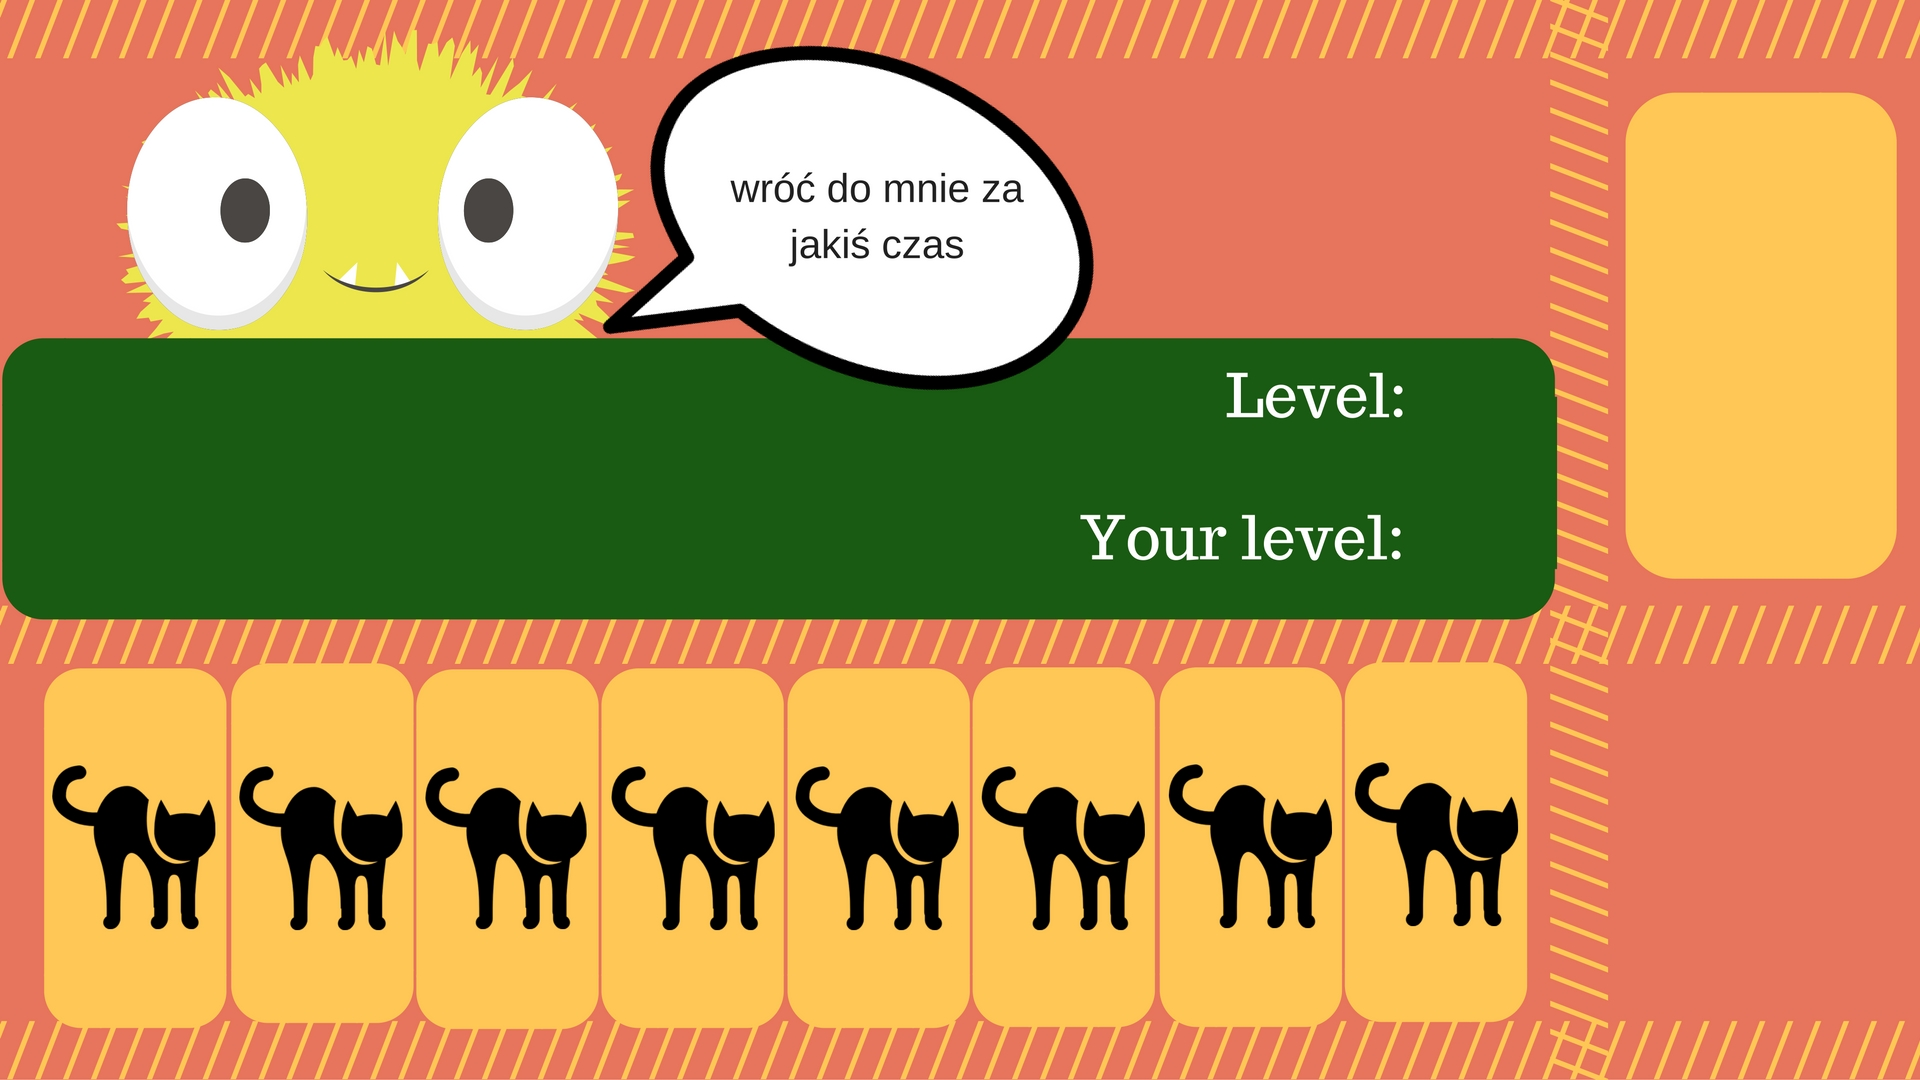
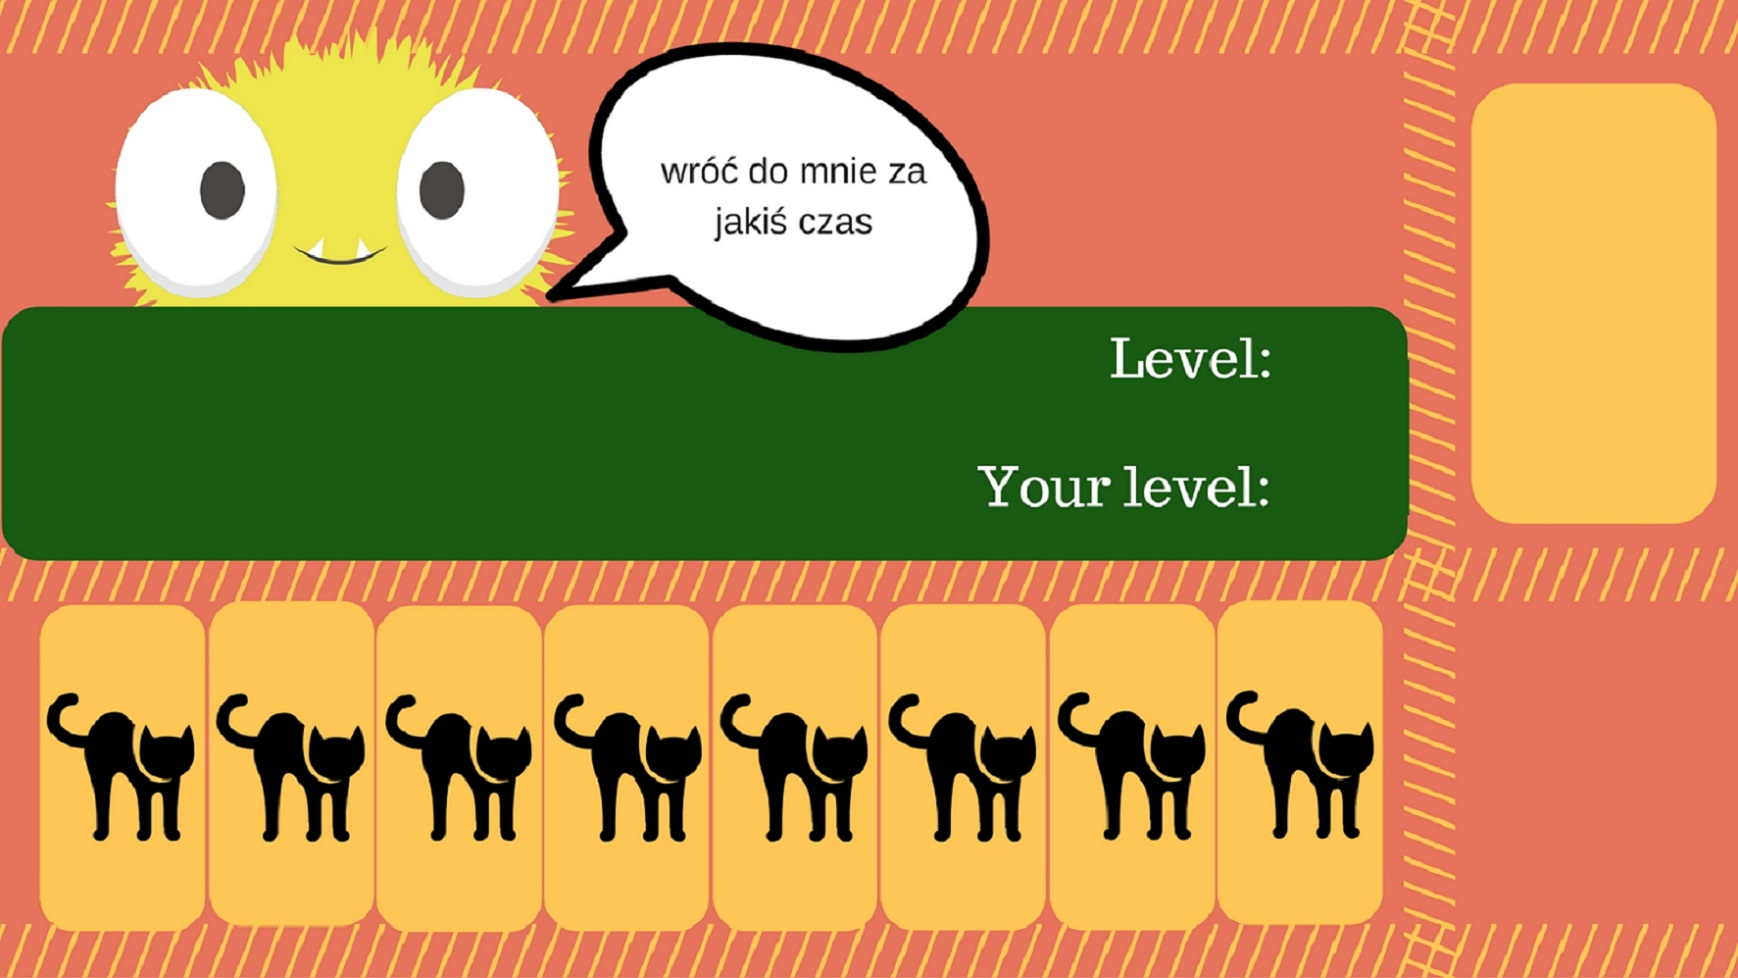
change size of gameboard

diff --git a/munchkin/src/src/gui/Gra.java b/munchkin/src/src/gui/Gra.java
@@ -99,7 +99,7 @@ public class Gra extends javax.swing.JFrame {
             }
         });
         getContentPane().add(homeButton);
-        homeButton.setBounds(1360, 80, 80, 60);
+        homeButton.setBounds(1230, 60, 80, 60);
 
         closeButton.setIcon(new javax.swing.ImageIcon(getClass().getResource("/img/exit.png"))); // NOI18N
         closeButton.setBorderPainted(false);
@@ -110,7 +110,7 @@ public class Gra extends javax.swing.JFrame {
             }
         });
         getContentPane().add(closeButton);
-        closeButton.setBounds(1439, 80, 80, 60);
+        closeButton.setBounds(1300, 60, 80, 60);
 
         walczZPotworemZRekiButton.setText("Walcz z potworem z ręki");
         walczZPotworemZRekiButton.addActionListener(new java.awt.event.ActionListener() {
@@ -119,7 +119,7 @@ public class Gra extends javax.swing.JFrame {
             }
         });
         getContentPane().add(walczZPotworemZRekiButton);
-        walczZPotworemZRekiButton.setBounds(870, 610, 190, 23);
+        walczZPotworemZRekiButton.setBounds(790, 470, 190, 25);
 
         wezKarteDrzwiButton.setText("Weź kartę drzwi");
         wezKarteDrzwiButton.addActionListener(new java.awt.event.ActionListener() {
@@ -128,7 +128,7 @@ public class Gra extends javax.swing.JFrame {
             }
         });
         getContentPane().add(wezKarteDrzwiButton);
-        wezKarteDrzwiButton.setBounds(720, 610, 130, 23);
+        wezKarteDrzwiButton.setBounds(640, 470, 130, 25);
 
         zrobioneButton.setText("Zrobione");
         zrobioneButton.addActionListener(new java.awt.event.ActionListener() {
@@ -137,7 +137,7 @@ public class Gra extends javax.swing.JFrame {
             }
         });
         getContentPane().add(zrobioneButton);
-        zrobioneButton.setBounds(800, 610, 130, 23);
+        zrobioneButton.setBounds(640, 510, 130, 25);
 
         koniecTuryButton.setText("Koniec tury");
         koniecTuryButton.addActionListener(new java.awt.event.ActionListener() {
@@ -146,7 +146,7 @@ public class Gra extends javax.swing.JFrame {
             }
         });
         getContentPane().add(koniecTuryButton);
-        koniecTuryButton.setBounds(800, 610, 130, 23);
+        koniecTuryButton.setBounds(790, 510, 130, 25);
         koniecTuryButton.getAccessibleContext().setAccessibleName("");
 
         otworzDrzwiButton.setText("Otwórz drzwi");
@@ -156,7 +156,7 @@ public class Gra extends javax.swing.JFrame {
             }
         });
         getContentPane().add(otworzDrzwiButton);
-        otworzDrzwiButton.setBounds(800, 610, 130, 23);
+        otworzDrzwiButton.setBounds(790, 510, 130, 25);
 
         walczButton.setText("Walcz z potworem");
         walczButton.addActionListener(new java.awt.event.ActionListener() {
@@ -165,7 +165,7 @@ public class Gra extends javax.swing.JFrame {
             }
         });
         getContentPane().add(walczButton);
-        walczButton.setBounds(800, 610, 130, 23);
+        walczButton.setBounds(790, 510, 130, 25);
 
         odrzucKartyButton.setText("Odrzuc karty");
         odrzucKartyButton.addActionListener(new java.awt.event.ActionListener() {
@@ -174,7 +174,7 @@ public class Gra extends javax.swing.JFrame {
             }
         });
         getContentPane().add(odrzucKartyButton);
-        odrzucKartyButton.setBounds(0, 580, 130, 23);
+        odrzucKartyButton.setBounds(0, 460, 130, 25);
 
         wylozZRekiButton.setText("Wyłóż kartę z ręki");
         wylozZRekiButton.addActionListener(new java.awt.event.ActionListener() {
@@ -183,7 +183,7 @@ public class Gra extends javax.swing.JFrame {
             }
         });
         getContentPane().add(wylozZRekiButton);
-        wylozZRekiButton.setBounds(0, 610, 130, 23);
+        wylozZRekiButton.setBounds(0, 490, 130, 25);
         wylozZRekiButton.getAccessibleContext().setAccessibleName("Wyłóż na stół");
         wylozZRekiButton.getAccessibleContext().setAccessibleDescription("");
 
@@ -194,34 +194,34 @@ public class Gra extends javax.swing.JFrame {
             }
         });
         getContentPane().add(wezDoRekiButton);
-        wezDoRekiButton.setBounds(797, 610, 130, 23);
+        wezDoRekiButton.setBounds(790, 510, 130, 25);
 
         otwarteDrzwi.setBackground(new java.awt.Color(25, 91, 19));
         otwarteDrzwi.setBorder(javax.swing.BorderFactory.createTitledBorder(javax.swing.BorderFactory.createEtchedBorder()));
         getContentPane().add(otwarteDrzwi);
-        otwarteDrzwi.setBounds(680, 400, 390, 200);
+        otwarteDrzwi.setBounds(650, 310, 350, 130);
 
         kartyWRece.setBackground(new java.awt.Color(255, 199, 86));
         kartyWRece.setBorder(javax.swing.BorderFactory.createTitledBorder(javax.swing.BorderFactory.createEtchedBorder(), "karty w ręce"));
         getContentPane().add(kartyWRece);
-        kartyWRece.setBounds(140, 630, 520, 120);
+        kartyWRece.setBounds(140, 450, 470, 120);
 
         kartyNaStole.setBackground(new java.awt.Color(25, 91, 19));
         kartyNaStole.setBorder(javax.swing.BorderFactory.createTitledBorder(javax.swing.BorderFactory.createEtchedBorder(), "karty na stole"));
         getContentPane().add(kartyNaStole);
-        kartyNaStole.setBounds(140, 390, 520, 210);
+        kartyNaStole.setBounds(140, 310, 470, 130);
 
         klasa.setText("Twoja klasa: brak");
         getContentPane().add(klasa);
-        klasa.setBounds(1100, 310, 170, 14);
+        klasa.setBounds(1100, 310, 170, 16);
 
         rasa.setText("Twoja rasa: człowiek");
         getContentPane().add(rasa);
-        rasa.setBounds(1100, 290, 170, 14);
+        rasa.setBounds(1100, 290, 170, 16);
 
         poziomBojowy.setText("Twój poziom bojowy: 1");
         getContentPane().add(poziomBojowy);
-        poziomBojowy.setBounds(1100, 270, 130, 14);
+        poziomBojowy.setBounds(1100, 270, 130, 16);
 
         poziom.setText("Twój poziom: 1");
         getContentPane().add(poziom);
@@ -234,12 +234,12 @@ public class Gra extends javax.swing.JFrame {
         kartaDuza.setBorder(javax.swing.BorderFactory.createEtchedBorder());
         kartaDuza.setOpaque(true);
         getContentPane().add(kartaDuza);
-        kartaDuza.setBounds(1100, 410, 220, 190);
+        kartaDuza.setBounds(1040, 310, 220, 190);
 
         background.setIcon(new javax.swing.ImageIcon(getClass().getResource("/img/gameboard.jpg"))); // NOI18N
         background.setOpaque(true);
         getContentPane().add(background);
-        background.setBounds(0, 0, 1920, 1080);
+        background.setBounds(-10, -50, 2030, 1080);
 
         pack();
     }// </editor-fold>//GEN-END:initComponents
